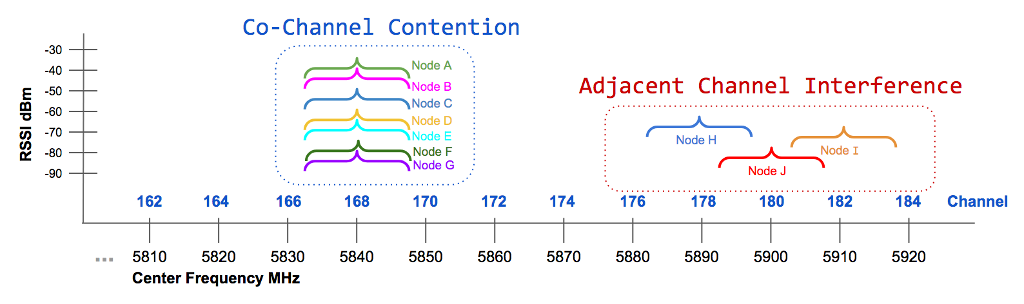
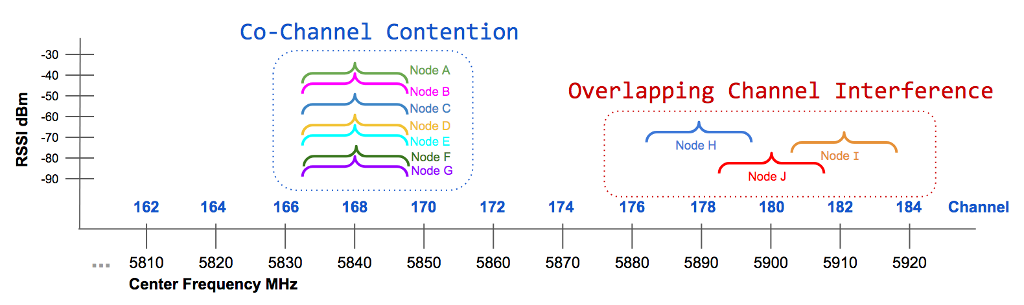
Clarify Channel Planning section
More Channel Planning section clarifications.

diff --git a/arednNetworkDesign/channel_planning.rst b/arednNetworkDesign/channel_planning.rst
@@ -18,7 +18,7 @@ In a single-channel wireless network, any node that needs to transmit will autom
 Channel Contention
 ++++++++++++++++++
 
-The concept of *Adjacent Channel Interference (ACI)* is illustrated on right side of the following channel scan diagram. *Adjacent Channel Interference* is very serious, but it can be eliminated by selecting non-overlapping channels for all devices accessing your mesh network. A second issue related to how wireless networks operate is illustrated on the left side of the diagram. It is commonly called *Co-channel Interference (CCI)* but is more accurately described as *Co-channel Contention* or *Co-channel Cooperation*.
+The concept of *Overlapping Channel Interference* is illustrated on the right side of the following channel scan diagram. *Overlapping Channel Interference* is very serious, but it can be eliminated by selecting non-overlapping channels for all devices accessing your mesh network. A second issue related to how wireless networks operate is illustrated on the left side of the diagram. It is commonly called *Co-channel Interference* but is more accurately described as *Co-channel Contention* or *Co-channel Cooperation*.
 
 .. image:: _images/cci-aci.png
    :alt: Co-Channel Contention
@@ -28,7 +28,7 @@ In this example several nodes must share a single channel, so they all negotiate
 
 This example is not meant to show that having only seven nodes will overload a channel. There is no established rule of thumb for channel sharing that specifies how many nodes are too many. The answer depends on the number of nodes, the bandwidth in use to support required services, the link signal qualities, and other network characteristics. Based on these parameters one shared channel may perform well with many dozens of nodes, while another network may see performance degradation with significantly fewer nodes sharing a channel. Many factors interact to influence network performance, but it will soon become obvious to users whether the network is behaving as expected.
 
-Several tools are available for testing network performance such as *ping* to measure latency, *traceroute* to identify how traffic is being routed, and *iperf3* to estimate network throughput. Periodic measurements along with user perceptions can be helpful in determining whether channel separation would be of benefit. This issue is an expected by-product of how wireless networks normally operate, but performance can be enhanced by planning the assigned channels for your mesh devices as described in the **Channel Plans** section below.
+Several tools are available for testing network performance such as *ping* to measure latency, *traceroute* to identify how traffic is being routed, and *iperf3* to estimate network throughput. Periodic measurements along with user perceptions can be helpful in determining whether channel separation would be of benefit. It is an expected by-product of how wireless networks normally operate, but performance can be enhanced by planning the assigned channels for your mesh devices as described in the **Channel Plans** section below.
 
 Hidden Nodes
 ++++++++++++
@@ -69,7 +69,7 @@ Band     Channel Width    Unshared Non-overlapping Channels
 5.8 GHz  10 MHz           8
 =======  ===============  =================================
 
-Ideally, adjacent or overlapping RF coverage zones (sometimes called "cells") should use different channels. Overlapping cell coverage can provide broader connectivity, but the overlapping coverage zones should not use overlapping RF frequencies.
+Ideally, RF coverage zones (sometimes called "cells") should use different channels. Overlapping cell coverage can provide broader connectivity, but the overlapping coverage zones should not use overlapping RF frequencies.
 
 .. image:: _images/channel-reuse-example.png
    :alt: Example Channel Reuse Plan
@@ -113,7 +113,7 @@ Most of the latest AREDN |trade| devices use dual polarity antennas and :abbr:`M
 Aligning Linked Nodes
 +++++++++++++++++++++
 
-The AREDN |trade| web interface provides information that is helpful when aligning two nodes that are being installed to form a link. On the **Node Status** page, click the **Charts** button to view the *Realtime Signal to Noise* graph. Slowly turn and tilt your antenna, pausing to view the signal metrics. Once you see the best signal, as shown below, you can lock your antenna into position. If you want to focus on the antenna position without having to view the SNR graph, you can also enable the *SNR Sound* feature and align the antenna to the highest pitch tone. Depending on the implementation, a Signal to Noise Ratio of 15 dB is adequate to pass data at speeds in the range of 5 to 20 :abbr:`Mbps (Megabits per second)`.
+The AREDN |trade| web interface provides information that is helpful when aligning two nodes that are being installed to form a link. On the **Node Status** page, click the **Charts** button to view the *Realtime Signal to Noise* graph. Slowly turn and tilt your antenna, pausing to view the signal metrics. Once you see the best signal, as shown below, you can lock your antenna into position. If you want to focus on the antenna position without having to watch the SNR graph, you can also enable the *SNR Sound* feature and align the antenna to the highest pitch tone. Depending on the implementation, a Signal to Noise Ratio of 15 dB is adequate to pass data at speeds in the range of 5 to 20 :abbr:`Mbps (Megabits per second)`.
 
 .. image:: _images/align-nodes.png
    :alt: Aligning Nodes

diff --git a/arednGettingStarted/installing_firmware.rst b/arednGettingStarted/installing_firmware.rst
@@ -156,7 +156,7 @@ Mikrotik First Install Process
   >>>
   (root)# dnsmasq -i eth0 -u joe --log-dhcp --bootp-dynamic \
         --dhcp-range=192.168.1.110,192.168.1.120 -d -p0 -K \
-        --dhcp-boot=recovery.bin --enable-tftp --tftp-root=/tftp/
+        --dhcp-boot=rb.elf --enable-tftp --tftp-root=/tftp/
 
 4. With the PoE unit powered off, connect the Mikrotik node to the POE port. Press and hold the reset button on the Mikrotik while powering on the PoE unit or the hAP device.
 
